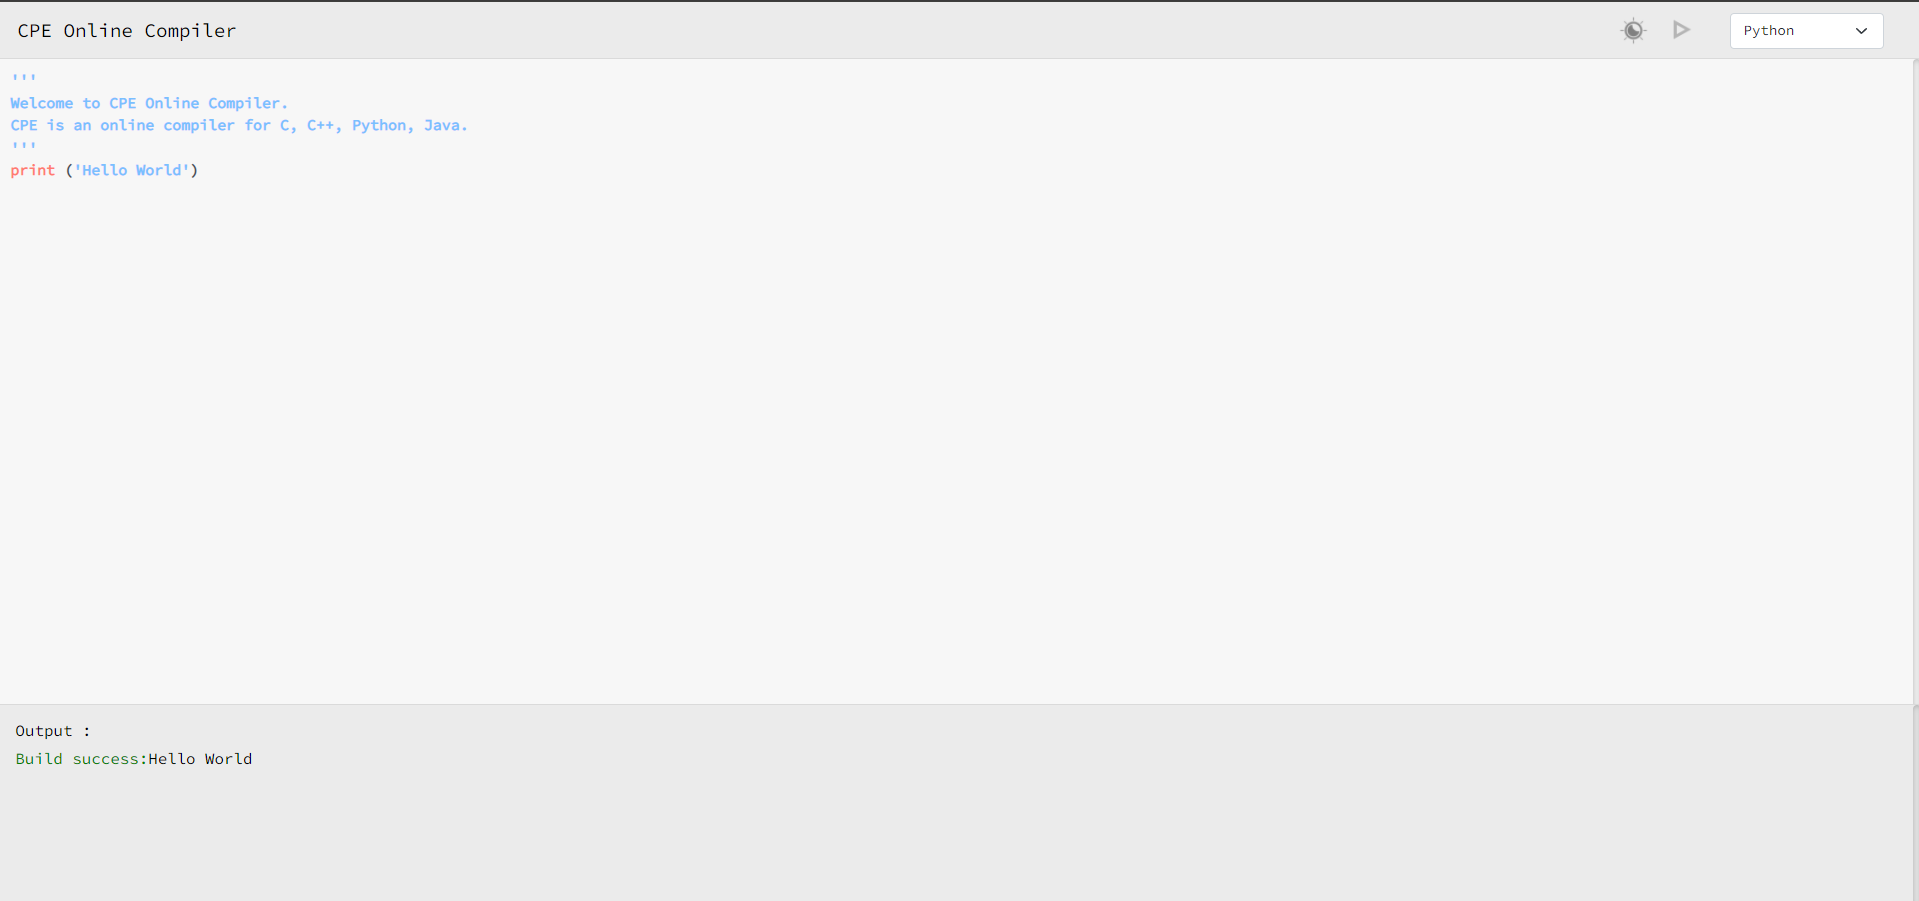
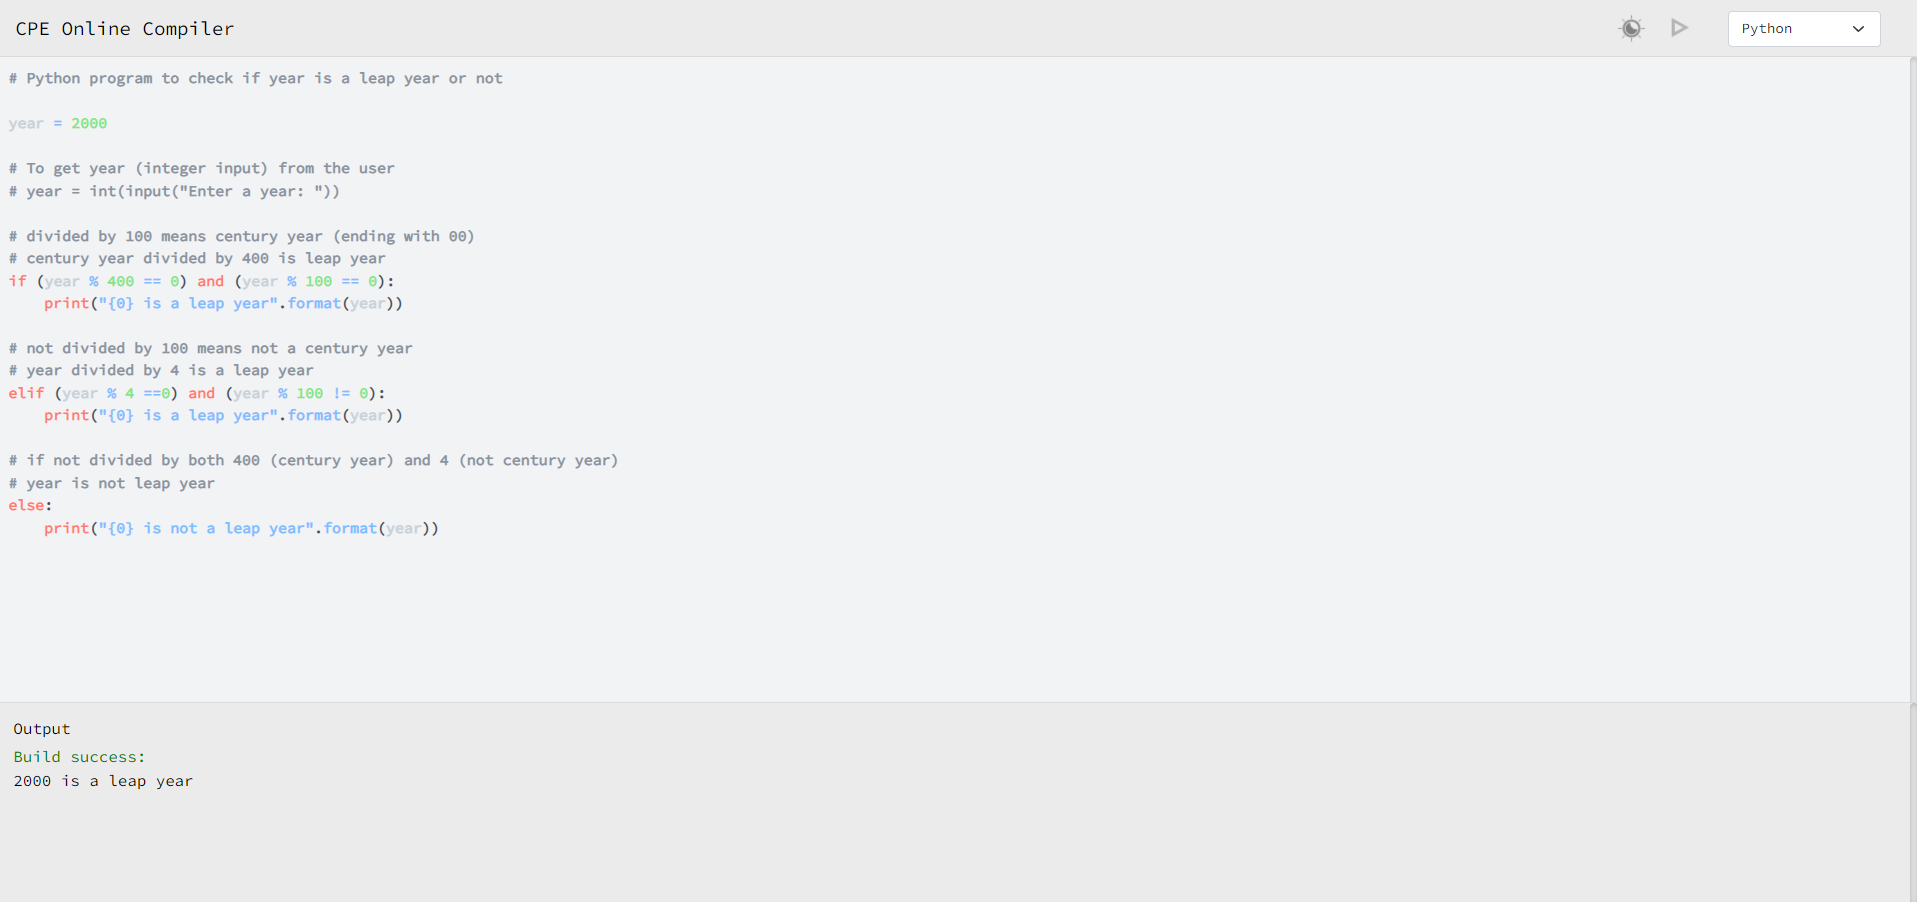
synchronous time to execute

diff --git a/client/src/Output.js b/client/src/Output.js
@@ -2,15 +2,15 @@ import React from 'react'
 
 export const Output = (props) => {
     return (
-        <div className="output" style={{ display: 'flex', flexDirection: 'column', textAlign: 'left', paddingLeft: '0.8vw', backgroundColor:props.bgcol, marginTop: '-8px', paddingTop: '40px', overflowY: 'scroll',position:'relative' ,height:'22.5vh',fontSize:'0.95em',borderTop:`0.1px solid ${props.border}`,color:props.col}}>
-            <h6 style={{ color: props.col,zIndex:'99',position:'absolute',top:'15px',fontSize:'15.25px'}}>Output :</h6>
-            <div className="output" style={{ color: 'white',display:'flex',flexDirection:'row' }}>
-                {(props.op[1]) ?
+        <div className="output" style={{ display: 'flex', flexDirection: 'column', textAlign: 'left', paddingLeft: '0.8vw', backgroundColor: props.bgcol, marginTop: '-8px', paddingTop: '40px', overflowY: 'scroll', position: 'relative', height: '22.5vh', fontSize: '0.98em', borderTop: `0.1px solid ${props.border}`, color: props.col }}>
+            <h6 style={{ color: props.col, zIndex: '99', position: 'absolute', top: '15px', fontSize: '15.25px' }}>Output </h6>
+            <div className="output" style={{ color: 'white', display: 'flex', flexDirection: 'column' }}>
+                {(props.op[0]) ?
                     <span style={{ color: 'green' }}> Build success: </span> : <></>}
-                  <p style={{color:props.col}}>{props.op[1]}</p> 
-                {(props.op[2]) ?
-                    <span style={{ color: 'red' }}> Build failed: </span> : <></>}
-               <p style={{color:props.col}}>{props.op[2]}</p> 
+                <p style={{ color: props.col }}>{props.op[0]}</p>
+                {(props.op[1]) ?
+                    <span style={{ color: 'red' ,marginTop:'-15px'}}> Build failed: </span> : <></>}
+                <p style={{ color: props.col }}>{props.op[1]}</p>
             </div>
         </div>
     )

diff --git a/backend/deleteFile.js b/backend/deleteFile.js
@@ -1,12 +1,24 @@
-const fs=require('fs')
-const path=require('path')
-const deleteFile=(filePath)=>{
-        const fn=`./codes/${path.basename(filePath)}`.split('.')[1].split('/')[2]
-        const ext=`./codes/${path.basename(filePath)}`.split('.')[2]
+const fs = require('fs')
+const path = require('path')
+const deleteFile = (filePath) => {
+        const fn = `./codes/${path.basename(filePath)}`.split('.')[1].split('/')[2]
+        const ext = `./codes/${path.basename(filePath)}`.split('.')[2]
         fs.unlinkSync(`./codes/${path.basename(filePath)}`)
-        if(ext==='java')
-        fs.unlinkSync(`./codes/${fn}.class`)
-        if(ext==='c'||ext==='cpp')
-        fs.unlinkSync(`./codes/a.exe`)
+        if (ext === 'java') {
+                try {
+                        fs.unlinkSync(`./codes/${fn}.class`)
+                }
+                catch (e) {
+                        // console.log(e);
+                }
+        }
+        if (ext === 'c' || ext === 'cpp') {
+                try {
+                        fs.unlinkSync(`./codes/a.exe`)
+                }
+                catch (e) {
+                        // console.log(e)
+                }
+        }
 }
-module.exports={deleteFile}
+module.exports = { deleteFile }

diff --git a/backend/runJava.js b/backend/runJava.js
@@ -1,4 +1,4 @@
-const {exec}=require('child_process')
+const {execSync}=require('child_process')
 const path =require('path')
 const runjava=async(codePath)=>{
     var runfile=path.resolve(codePath)
@@ -6,13 +6,13 @@ const runjava=async(codePath)=>{
     const filename=path.basename(codePath)
     const command=`cd ${path.dirname(op)} && javac ${filename.split('.')[0]}.java && java ${filename.split('.')[0]}`
     var arr = []
-    exec(`${command}`, (err, stdout, stderr) => {
-        arr.push(err)
-        arr.push(stdout)
-        arr.push(stderr)
-    })
-    const delay = ms => new Promise(resolve => setTimeout(resolve, ms))
-    await delay(2500)
+    try {
+        const out=execSync(`${command}`)
+        arr.push(out.toString());
+    }catch(e){
+        arr.push('')
+        arr.push(e.stderr.toString());
+    }
     return arr
  }
 module.exports={runjava}

diff --git a/backend/runC.js b/backend/runC.js
@@ -1,4 +1,4 @@
-const { exec } = require('child_process')
+const { execSync } = require('child_process')
 const path = require('path')
 const runc = async (codePath) => {
     var runfile = path.resolve(codePath)
@@ -6,13 +6,13 @@ const runc = async (codePath) => {
     const filename = path.basename(codePath)
     const command = `cd ${path.dirname(op)} && g++ ${filename.split('.')[0]}.c && a.exe`
     var arr = []
-    exec(`${command}`, (err, stdout, stderr) => {
-        arr.push(err)
-        arr.push(stdout)
-        arr.push(stderr)
-    })
-    const delay = ms => new Promise(resolve => setTimeout(resolve, ms))
-    await delay(2500)
+    try {
+        const out=execSync(`${command}`)
+        arr.push(out.toString());
+    }catch(e){
+        arr.push('')
+        arr.push(e.stderr.toString());
+    }
     return arr
 }
 module.exports = { runc };

diff --git a/backend/runPy.js b/backend/runPy.js
@@ -1,4 +1,4 @@
-const { exec } = require('child_process')
+const { execSync } = require('child_process')
 const path = require('path')
 const runpy = async (codePath) => {
     var runfile = path.resolve(codePath)
@@ -6,13 +6,13 @@ const runpy = async (codePath) => {
     const filename = path.basename(codePath)
     const command = `cd ${path.dirname(op)} && python ${filename.split('.')[0]}.py }`
     var arr = []
-    exec(`${command}`, (err, stdout, stderr) => {
-        arr.push(err)
-        arr.push(stdout)
-        arr.push(stderr)
-    })
-    const delay = ms => new Promise(resolve => setTimeout(resolve, ms))
-    await delay(2500)
+    try {
+        const out=execSync(`${command}`)
+        arr.push(out.toString());
+    }catch(e){
+        arr.push('')
+        arr.push(e.stderr.toString());
+    }
     return arr
 }
 module.exports = { runpy };

diff --git a/backend/runCpp.js b/backend/runCpp.js
@@ -1,4 +1,4 @@
-const {exec}=require('child_process')
+const {execSync}=require('child_process')
 const path =require('path')
 const runcpp=async(codePath)=>{
     var runfile=path.resolve(codePath)
@@ -6,13 +6,13 @@ const runcpp=async(codePath)=>{
     const filename=path.basename(codePath)
     const command=`cd ${path.dirname(op)} && g++ ${filename.split('.')[0]}.cpp && a.exe`
     var arr = []
-    exec(`${command}`, (err, stdout, stderr) => {
-        arr.push(err)
-        arr.push(stdout)
-        arr.push(stderr)
-    })
-    const delay = ms => new Promise(resolve => setTimeout(resolve, ms))
-    await delay(2500)
+    try {
+        const out=execSync(`${command}`)
+        arr.push(out.toString());
+    }catch(e){
+        arr.push('')
+        arr.push(e.stderr.toString());
+    }
     return arr
  }
 module.exports={runcpp};

diff --git a/client/src/App.js b/client/src/App.js
@@ -34,6 +34,7 @@ function App() {
     })
     const data = await resp.json()
     setLoading(false)
+    // console.log(data);
     setOutput(data);
   }
   function setProplang(e) {
@@ -61,7 +62,7 @@ function App() {
     }
     else{
       setBg('rgb(235 235 235)')
-      setBg1('#F7F7F7')
+      setBg1('#F2F3F5')
       setColor('black')
       setBorder('rgb(218 218 218)')
     }

diff --git a/client/src/index.css b/client/src/index.css
@@ -8,6 +8,8 @@ body {
   background-color: rgb(36 38 38);
   font-family: 'Noto Sans', sans-serif;
 font-family: 'Source Code Pro', monospace;
+-webkit-font-smoothing: antialiased;
+  -moz-osx-font-smoothing: grayscale;
 }
 
 code {

diff --git a/backend/codes/eaten11328.c b/backend/codes/eaten11328.c
@@ -1,0 +1,13 @@
+/******************************************************************************
+Welcome to CPE Online Compiler.
+CPE is an online compiler for C, C++, Python, Java.
+*******************************************************************************/
+
+#include <stdio.h>
+
+int main()
+{
+    printf("Hello World");
+
+    return 0;
+}

diff --git a/backend/codes/per113358.c b/backend/codes/per113358.c
@@ -1,0 +1,13 @@
+/******************************************************************************
+Welcome to CPE Online Compiler.
+CPE is an online compiler for C, C++, Python, Java.
+*******************************************************************************/
+
+#include <stdio.h>
+
+int main()
+{
+    printf("Hello World");
+
+    return 0;
+}
